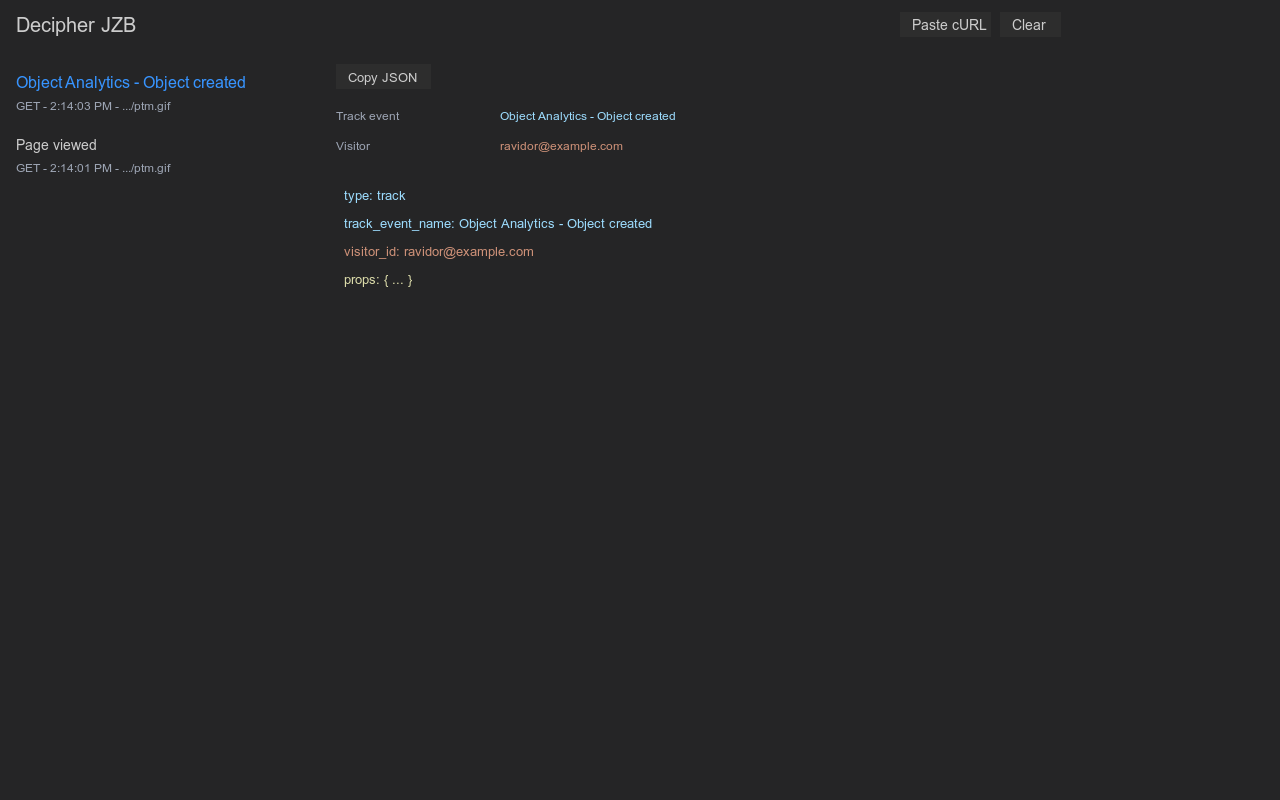
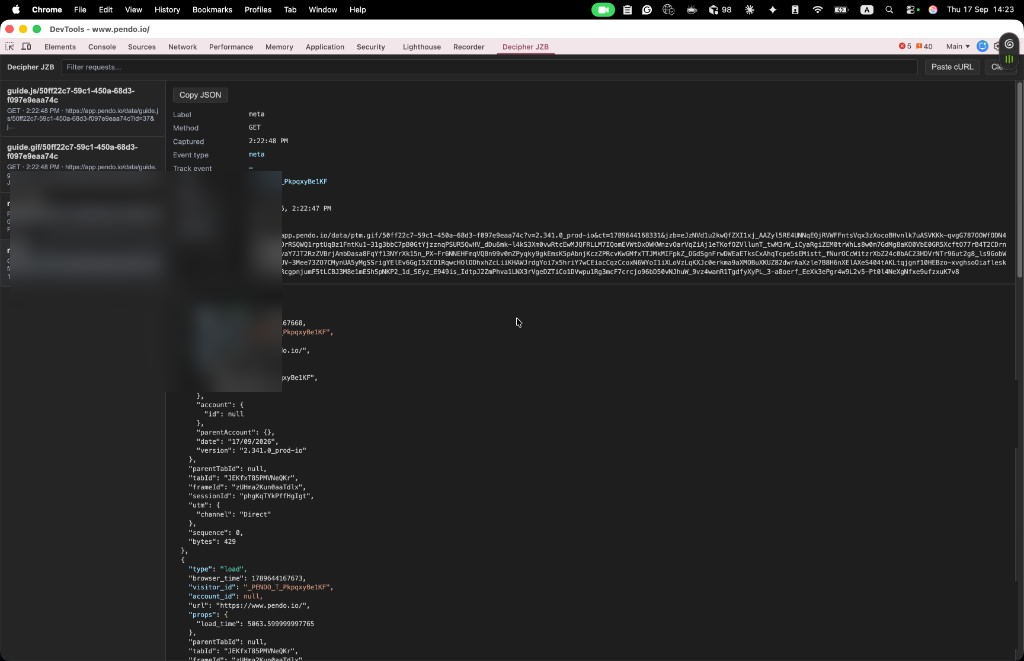
Add screenshot redaction and unpacked dist packaging.
Package into dist/jzb-decoder/ plus zip, add a PII redaction script for store screenshots, and replace panel-overview.png with a redacted real capture.

diff --git a/docs/screenshots/README.md b/docs/screenshots/README.md
@@ -2,7 +2,24 @@
 
 Capture screenshots after loading the unpacked extension and opening the **Decipher JZB** DevTools panel.
 
-`panel-overview.png` is a mock layout image for early listing drafts. Replace it with a real DevTools capture before publishing.
+## Redact PII before publishing
+
+Screenshots must not include real visitor IDs, session IDs, account IDs, or full request URLs with live `jzb` payloads.
+
+After capturing a screenshot, run:
+
+```bash
+npm run redact-screenshot -- path/to/raw-capture.png docs/screenshots/panel-overview.png
+```
+
+The script pixelates common PII regions in DevTools panel screenshots:
+
+- Request list paths and URLs
+- Visitor metadata value
+- Request URL value
+- Decoded JSON identifiers (`visitor_id`, `props.visitor`, `tabId`, `frameId`, `sessionId`)
+
+Review the output image before uploading. Add manual redaction if your layout differs or additional fields are visible.
 
 ## Recommended shots
 
@@ -10,13 +27,16 @@ Capture screenshots after loading the unpacked extension and opening the **Decip
    - Open a page that emits `jzb=` beacon requests.
    - Open DevTools, select **Decipher JZB**.
    - Capture the request list with one item selected and decoded JSON visible.
+   - Save as `panel-overview.png` after redaction.
 
 2. **Paste cURL**
    - Click **Paste cURL**, paste a copied Network request, and decode it.
    - Capture the paste panel and decoded result.
+   - Redact and save as `paste-curl.png`.
 
 3. **Filter in use**
    - Capture several captured requests with the search box filtering the list.
+   - Redact and save as `search-filter.png`.
 
 ## How to capture on macOS
 
@@ -24,13 +44,11 @@ Capture screenshots after loading the unpacked extension and opening the **Decip
 2. Open DevTools on a page with `jzb=` traffic.
 3. Resize the DevTools dock so the panel is easy to read.
 4. Press `Cmd+Shift+5` and capture the DevTools window or selected region.
-5. Save PNG files in this directory using these names:
-   - `panel-overview.png`
-   - `paste-curl.png`
-   - `search-filter.png`
+5. Run the redaction script for each raw capture.
+6. Save redacted PNG files in this directory.
 
 ## Store listing notes
 
 - Use at least one screenshot at 1280x800 or 640x400.
-- Avoid showing real customer data, production account IDs, or private URLs when possible.
-- Blur or replace sensitive values before upload if needed.
+- Prefer synthetic or internal test accounts when capturing.
+- Replace `panel-overview.png` with your own redacted capture before publishing.

diff --git a/README.md b/README.md
@@ -38,7 +38,10 @@ npm test
 npm run package
 ```
 
-`npm run package` writes `dist/jzb-decoder.zip` for Chrome Web Store upload.
+`npm run package` writes:
+
+- `dist/jzb-decoder/` unpacked extension files for inspection
+- `dist/jzb-decoder.zip` for Chrome Web Store upload
 
 ## Privacy
 
@@ -61,13 +64,14 @@ npm test
 npm run package
 ```
 
-Verify the zip contains extension runtime files only:
+Verify the packaged output:
 
 ```bash
+ls dist/jzb-decoder
 unzip -l dist/jzb-decoder.zip
 ```
 
-Expected runtime files:
+Expected runtime files in `dist/jzb-decoder/` and at the zip root:
 
 - `manifest.json`
 - `devtools.html`, `devtools.js`
